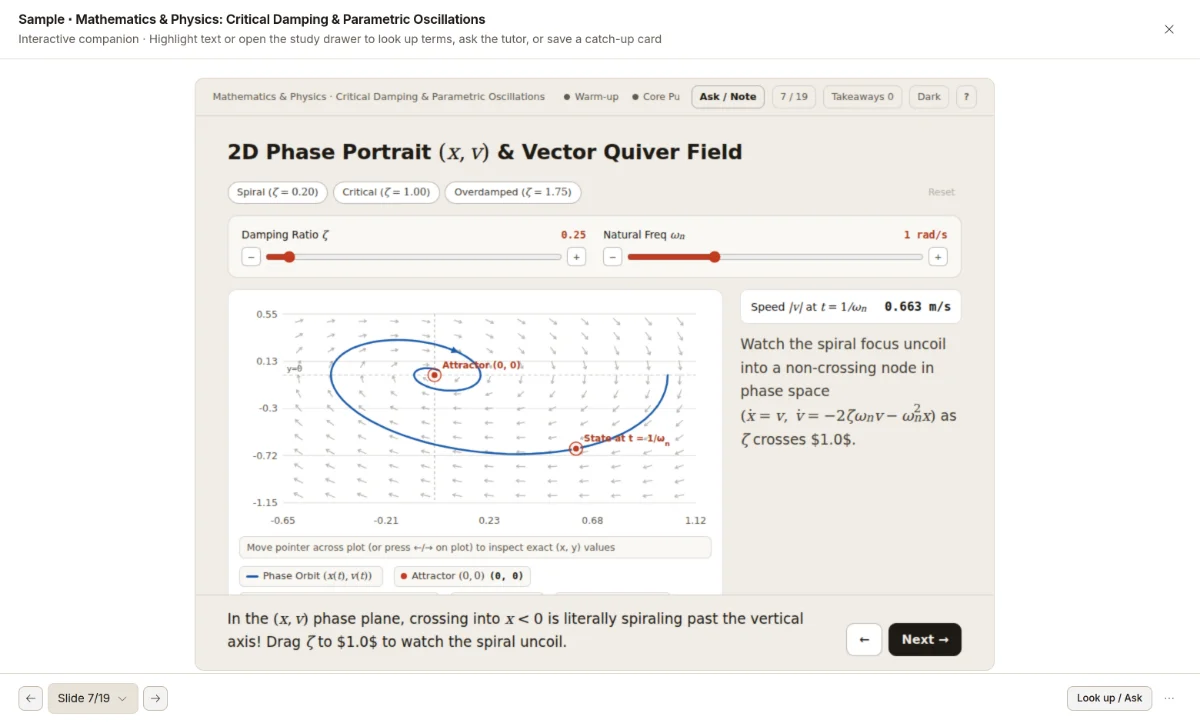
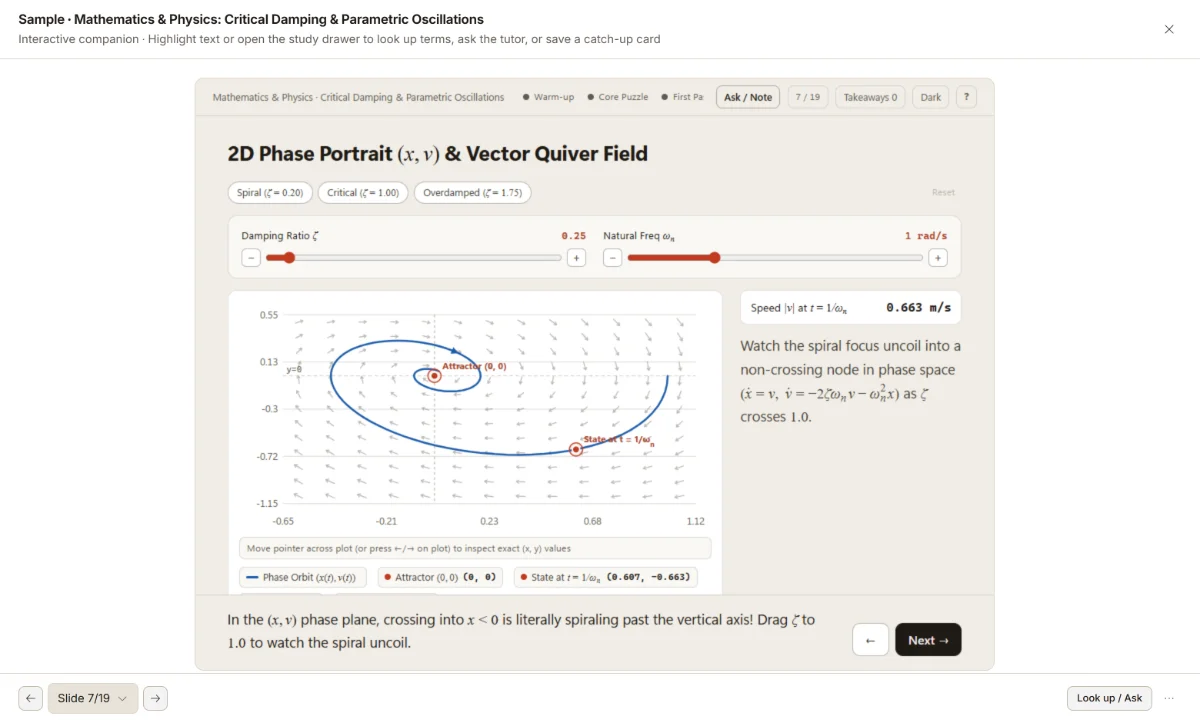
fix(companion): render $number$ as math; reader shot starts at the question header
- lib/companion-template/mathml.js: a closed $...$ pair around a bare number
  ("decays to $0$", "crosses $1.0$") is math the author wrote. The currency
  branch no longer backtracks into "$1" when the digits run into a closing $,
  and the pure-number guard is gone. Plain prices ("$100 to $250", "$3.50.")
  still stay literal. Regression test in tests/interactive-companions.test.mjs.
- scripts/readme-shots.mjs: opening the citation scrolled the question column, so
  the reader shot started mid-answer. Reset every pane except the reader to its top.
- Re-shot companion-* and reader-* (8 files).

diff --git a/lib/companion-template/mathml.js b/lib/companion-template/mathml.js
@@ -8,7 +8,7 @@
 import temml from 'temml';
 
 const DISPLAY_FORMULA_PATTERN = /\$\$([\s\S]+?)\$\$/g;
-const INLINE_FORMULA_OR_CURRENCY_PATTERN = /\\\$|(?<!\$)\$\d+(?:[.,]\d+)*(?=\s+[A-Za-z(]|\s*[.,;:!?)\]]|$)|(?<!\$)\$(?!\$)([^\n$]+?)(?<!\\|\$)\$(?!\$|[0-9])/g;
+const INLINE_FORMULA_OR_CURRENCY_PATTERN = /\\\$|(?<!\$)\$\d+(?:[.,]\d+)*(?![\d.,]*\$)(?=\s+[A-Za-z(]|\s*[.,;:!?)\]]|$)|(?<!\$)\$(?!\$)([^\n$]+?)(?<!\\|\$)\$(?!\$|[0-9])/g;
 const RAW_SOURCE_KEYS = new Set([
   'source', 'expr', 'xExpr', 'yExpr', 'dxExpr', 'dyExpr', 'xVar', 'yVar',
   'command', 'path', 'id', 'of', 'lab', 't', 'type', 'beat', 'layout', 'lang', 'tone', 'format', 'template',
@@ -62,7 +62,9 @@ export function compileMathInLesson(lesson) {
   const internFormula = (rawTex, display, whole) => {
     const tex = String(rawTex ?? '').trim();
     if (!tex) return whole;
-    if (!display && (/^\d+(?:[.,]\d+)*$/.test(tex) || /^\d+(?:[.,]\d+)*\s+[A-Za-z(]/.test(tex))) return whole;
+    // A closed pair around a bare number ("to $0$", "crosses $1.0$") is math the author wrote; bare currency
+    // ("$100 to $250") never reaches here because the currency branch of the pattern consumes it first.
+    if (!display && /^\d+(?:[.,]\d+)*\s+[A-Za-z(]/.test(tex)) return whole;
     const cacheKey = `${display ? 'D' : 'I'}:${tex}`;
     let index = byKey.get(cacheKey);
     if (index === undefined) {

diff --git a/changes/unreleased/companion-number-math.en.md b/changes/unreleased/companion-number-math.en.md
@@ -1,0 +1,1 @@
+- **Interactive companions now show a number written between dollar signs as math.** Text such as "decays to $0$" or "as ζ crosses $1.0$" used to show the raw dollar signs; it now renders like any other formula. Plain prices such as "$100 to $250" still stay as written. Not verified: companions generated by a real model in the app.

diff --git a/changes/unreleased/companion-number-math.zh-CN.md b/changes/unreleased/companion-number-math.zh-CN.md
@@ -1,0 +1,1 @@
+- **互动伴学页里写在两个美元符号之间的数字，现在按公式显示。** 以前「衰减到 $0$」「ζ 越过 $1.0$」这类写法会直接露出美元符号；现在和其他公式一样渲染。「$100 to $250」这样的价格仍原样保留。未验证：应用里由真实模型生成的伴学页。
